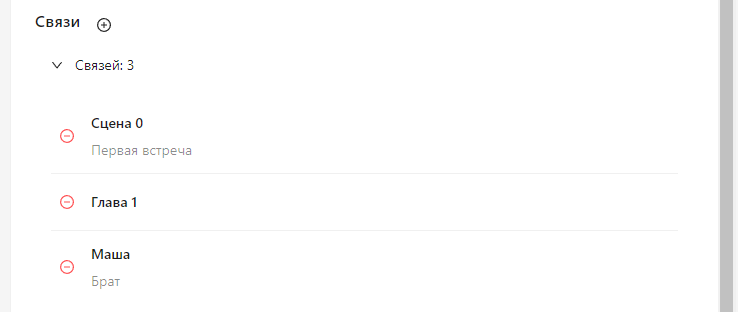
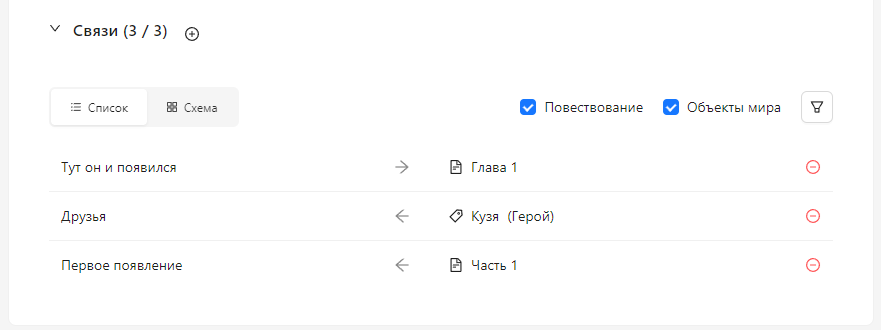
Update docs

diff --git a/docs/testing_checklist.md b/docs/testing_checklist.md
@@ -21,7 +21,7 @@
   - `project.sqlite`
   - папки `narrative`, `world`, `templates`
 - [ ] 1.1.8. Проверить, что после создания проекта в дереве повествования есть корневой элемент "Произведение".
-- [ ] 1.1.9. Попробовать создать проект в уже существующей папке с проектом (ожидается **ошибка или предупреждение** о существовании проекта).
+- [ ] 1.1.9. Попробовать создать проект в уже существующей папке с проектом — убедиться, что появляется **понятное пользователю сообщение об ошибке**, без технических деталей.
 - [ ] 1.1.10. В мастере создания проекта снять все галочки со структуры повествования и нажать "Далее" (ожидается, что **кнопка неактивна**, с пояснением).
 - [ ] 1.1.11. Проверить, что **в `project.sqlite` корректно заполнены таблицы**:
   - `narrative_items`
@@ -42,7 +42,7 @@
 - [ ] 1.2.5. Проверить, что при закрытии приложения (`before-quit`) проект корректно закрывается:
   - база данных закрывается без ошибок
   - не остаётся блокировок файлов
-- [ ] 1.2.6. При закрытом проекте (сразу после запуска приложения) попробовать открыть настройки проекта (`Файл -> Настройки`). Ожидается, что **действие будет заблокировано и/или появится уведомление**.
+- [ ] 1.2.6. При закрытом проекте (сразу после запуска приложения) попробовать открыть настройки проекта (`Файл -> Настройки`). Ожидается, что **появится уведомление**.
 
 ---
 
@@ -51,13 +51,17 @@
 - [ ] 1.3.1. Убедиться, что проект открыт и содержит данные (например, несколько объектов мира и повествования).
 - [ ] 1.3.2. Выбрать `Файл -> Заархивировать проект...`.
 - [ ] 1.3.3. В диалоговом окне сохранения выбрать место и имя ZIP-файла, затем нажать "Сохранить".
-- [ ] 1.3.4. Убедиться, что появилось уведомление об успешной архивации.
+- [ ] 1.3.4. Убедиться, что появилось **одно итоговое уведомление** об успешной архивации (а не несколько промежуточных).
 - [ ] 1.3.5. Проверить содержимое созданного ZIP-архива:
   - [ ] Он должен содержать файл `.wwb`.
   - [ ] Он должен содержать `project.sqlite`.
   - [ ] Он должен содержать папки `narrative` и `world` со всеми Markdown-файлами.
   - [ ] Проверить, что отсутствуют временные файлы или файлы, не относящиеся к проекту.
 - [ ] 1.3.6. Попробовать открыть созданный ZIP-архив как проект (распаковать и затем открыть) — убедиться, что он открывается корректно.
+- [ ] 1.3.7. Проверить актуальность данных в архиве:
+  - [ ] Внести изменение в какой-либо объект (например, в его описание).
+  - [ ] **Не переключаясь на другие объекты**, немедленно запустить архивацию.
+  - [ ] Распаковать архив и открыть проект. Убедиться, что **внесенное изменение сохранилось**.
 
 ---
 
@@ -140,16 +144,16 @@
 
 ---
 
-### 3.3. Вспомогательные файлы
+### 3.3. Вспомогательные файлы и синхронизация
 
 - [ ] 3.3.1. Выбрать объект мира. Убедиться, что панели "Дополнительные файлы" нет, если в папке нет файлов (кроме content.md).
 - [ ] 3.3.2. Нажать кнопку "Открыть папку объекта".
 - [ ] 3.3.3. Поместить в открывшуюся папку несколько файлов (например, .jpg, .txt, .pdf).
-- [ ] 3.3.4. Вернуться в приложение.  Переключиться на другой объект в приложении, а затем вернуться к исходному. Убедиться, что появилась сворачиваемая панель "Дополнительные файлы" и в ней отображается корректное количество файлов.
+- [ ] 3.3.4. Вернуться в приложение. **Не переключая объект**, подождать несколько секунд. Убедиться, что **панель "Дополнительные файлы" появилась автоматически** и в ней отображается корректное количество файлов.
 - [ ] 3.3.5. Развернуть панель. Убедиться, что в списке отображаются имена всех добавленных файлов.
 - [ ] 3.3.6. Нажать на имя одного из файлов. Убедиться, что файл открылся в приложении по умолчанию.
 - [ ] 3.3.7. Удалить один из файлов из папки через системный файловый менеджер.
-- [ ] 3.3.8. Переключиться на другой объект в приложении, а затем вернуться к исходному. Убедиться, что список файлов обновился и удаленный файл больше не отображается.
+- [ ] 3.3.8. **Не переключая объект**, подождать несколько секунд. Убедиться, что список файлов **обновился автоматически** и удаленный файл больше не отображается.
 - [ ] 3.3.9. Убедиться, что файл `content.md` не отображается в списке дополнительных файлов.
 - [ ] 3.3.10. Проверить работу с кириллицей в именах файлов.
 
@@ -158,9 +162,9 @@
 ### 3.4. Экспорт объектов мира
 
 - [ ] 3.4.1. Убедиться, что в проекте есть несколько шаблонов и объектов мира.
-- [ ] 3.4.2. Выбрать `Файл -> Экспортировать объекты мира...`.
+- [ ] 3.4.2. Выбрать `Данные -> Экспортировать -> Объекты мира...`.
 - [ ] 3.4.3. В диалоговом окне сохранения выбрать место и имя JSON-файла, затем нажать "Сохранить".
-- [ ] 3.4.4. Убедиться, что появилось уведомление об успешном экспорте.
+- [ ] 3.4.4. Убедиться, что появилось **одно итоговое уведомление** об успешном экспорте.
 - [ ] 3.4.5. Открыть созданный JSON-файл и проверить его структуру и содержимое:
   - [ ] Файл должен содержать экспортированные шаблоны, объекты мира и их связи.
   - [ ] Убедиться, что данные соответствуют существующим в проекте.
@@ -171,32 +175,53 @@
 
 - [ ] 3.5.1. Подготовить JSON-файл с экспортированными объектами мира (например, из предыдущего теста 3.4).
 - [ ] 3.5.2. Создать новый пустой проект или открыть проект, в котором нет объектов из импортируемого файла.
-- [ ] 3.5.3. Выбрать `Файл -> Импортировать объекты мира...`.
+- [ ] 3.5.3. Выбрать `Данные -> Импортировать -> Объекты мира...`.
 - [ ] 3.5.4. В диалоговом окне выбора файла указать подготовленный JSON-файл.
 - [ ] 3.5.5. В модальном окне импорта выбрать все шаблоны, объекты и связи для импорта.
 - [ ] 3.5.6. Нажать "Импортировать выбранные".
-- [ ] 3.5.7. Убедиться, что появилось уведомление об успешном импорте.
+- [ ] 3.5.7. Убедиться, что появилось **одно итоговое уведомление** об успешном импорте.
 - [ ] 3.5.8. Проверить, что импортированные шаблоны, объекты мира и их связи появились в проекте.
-- [ ] 3.5.9. Попробовать импортировать файл, содержащий шаблоны/объекты, которые уже есть в текущем проекте.
-  - [ ] Убедиться, что приложение корректно предлагает "использовать существующие" или "создать дубликаты" (если это предусмотрено функционалом).
-  - [ ] Проверить, что после импорта не создаются дубликаты, если выбрана опция "использовать существующие".
+- [ ] 3.5.9. Проверить обработку дубликатов при импорте:
+  - [ ] 3.5.9.1. Попробовать импортировать тот же файл еще раз.
+  - [ ] 3.5.9.2. В модальном окне убедиться, что **появились предупреждения о дубликатах** для шаблонов и объектов.
+  - [ ] 3.5.9.3. Убедится, что кнопка `выбрать все` не выбирает дублирующие типы
 - [ ] 3.5.10. Проверить импорт файла с некорректной структурой (невалидный JSON, отсутствующие обязательные поля) — **ожидается сообщение об ошибке**.
 
 ---
 
 ## 4. Управление связями
 
-- [ ] 4.1. Создать персонажа "Анна" и локацию "Замок".
-- [ ] 4.2. Выбрать "Анну", нажать "Добавить связь".
-- [ ] 4.3. В поиске найти "Замок".
-- [ ] 4.4. В описании связи указать "место рождения". Сохранить.
-- [ ] 4.5. Убедиться, что:
+### 4.1. Создание и удаление связей
+
+- [ ] 4.1.1. Создать персонажа "Анна" и локацию "Замок".
+- [ ] 4.1.2. Выбрать "Анну", в панели связей нажать "Добавить связь".
+- [ ] 4.1.3. В поиске найти "Замок".
+- [ ] 4.1.4. В описании связи указать "место рождения". Сохранить.
+- [ ] 4.1.5. Убедиться, что:
   - у "Анны" в списке связей появилась связь с "Замком"
   - у "Замка" в списке связей появилась **обратная связь** с "Анной"
-- [ ] 4.6. Удалить созданную связь.
-- [ ] 4.7. Попробовать создать связь объекта с самим собой — **ожидается, что объект не будет найден в поиске**.
-- [ ] 4.8. Проверить, что **связи сохраняются в базе данных** (`relations` таблица) и корректно восстанавливаются при перезагрузке.
-- [ ] 4.9. Удалить один из объектов, участвующих в связи — **связь должна быть автоматически удалена**.
+- [ ] 4.1.6. Удалить созданную связь.
+- [ ] 4.1.7. Попробовать создать связь объекта с самим собой — **ожидается, что объект не будет найден в поиске**.
+- [ ] 4.1.8. Проверить, что **связи сохраняются в базе данных** (`relations` таблица) и корректно восстанавливаются при перезагрузке.
+- [ ] 4.1.9. Удалить один из объектов, участвующих в связи — **связь должна быть автоматически удалена**.
+
+### 4.2. Отображение и фильтрация связей
+
+- [ ] 4.2.1. Убедиться в наличии переключателя вида "Список" / "Схема" в панели связей.
+- [ ] 4.2.2. **Тестирование вида "Список":**
+  - [ ] Убедиться, что связи отображаются в виде таблицы/списка.
+  - [ ] Проверить наличие колонок (например, "Объект", "Описание", "Направление").
+  - [ ] Кликнуть по связанному объекту в списке — убедиться, что произошел переход на этот объект.
+- [ ] 4.2.3. **Тестирование вида "Схема":**
+  - [ ] Переключиться на вид "Схема". Убедиться, что связи отображаются в виде графа.
+  - [ ] Убедиться, что узлы графа соответствуют объектам, а ребра — связям.
+  - [ ] Кликнуть на узел графа — убедиться, что произошел переход на соответствующий объект. (этого пока нет)
+- [ ] 4.2.4. **Тестирование фильтрации:**
+  - [ ] Создать несколько объектов разных типов (например, "Персонаж", "Локация", "Артефакт") и связать их.
+  - [ ] Убедиться в наличии кнопки фильтрации по типам объектов.
+  - [ ] Включить фильтр только для типа "Персонаж". Убедиться, что в списке/схеме отображаются только связи, ведущие к персонажам.
+  - [ ] Проверить работу фильтра с несколькими выбранными типами.
+  - [ ] Сбросить фильтр и убедиться, что все связи снова отображаются.
 
 ---
 
@@ -206,7 +231,7 @@
 
 - [ ] 5.1.1. Убедиться, что в повествовании есть несколько вложенных элементов (часть -> глава -> сцена).
 - [ ] 5.1.2. Для каждого элемента добавить MD-контент.
-- [ ] 5.1.3. Выполнить экспорт через меню `Файл -> Повествование -> Экспортировать всю рукопись`.
+- [ ] 5.1.3. Выполнить экспорт через меню `Данные -> Экспортировать -> Всю рукопись`.
 - [ ] 5.1.4. Сохранить файл.
 - [ ] 5.1.5. Открыть сохраненный MD-файл и проверить, что:
   - [ ] Все части повествования присутствуют
@@ -228,8 +253,8 @@
 
 ## 6. Настройки проекта
 
-- [ ] 6.1. Открыть настройки проекта.
-- [ ] 6.2. Изменить  - имя автора
+- [ ] 6.1. Открыть настройки проекта (`Файл -> Настройки`).
+- [ ] 6.2. Изменить имя автора.
 - [ ] 6.3. Проверить настройку пути к внешнему редактору Markdown:
   - [ ] Указать корректный путь к исполняемому файлу Markdown редактора.
   - [ ] Убедиться, что изменения сохранились после перезагрузки.
@@ -238,6 +263,7 @@
 - [ ] 6.4. Убедиться, что после перезагрузки новые значения отображаются корректно.
 - [ ] 6.5. Проверить, что все настройки сохраняются в таблицу `project_settings` базы данных.
 - [ ] 6.6. Проверить, что в настройках проекта отображается **версия приложения в поле только для чтения**.
+- [ ] 6.7. Проверить дизайн компонента выбора папки (например, для редактора Markdown) - убедиться, что он выглядит эстетично и функционирует правильно.
 
 ---
 

diff --git a/docs/planing/features.md b/docs/planing/features.md
@@ -6,7 +6,8 @@
 
 - ✅ **Реализовано.** Функционал, который уже есть в приложении.
 - ❌ **Не реализовано.** Функционал, который будет добавлен в будущих версиях.
-- ⚙ **Запланировано к разработке.** Функционал, который будет реализован в одной из следующих версий.
+- ⚙ **Взято в работу.** Функционал, который будет реализован в одной из следующих версий.
+- ➖ **Разработка отменена.** Функционал, который после проработки признан не реализуемым или не нужным
 
 ---
 
@@ -39,6 +40,7 @@
 |   ✅   | **Конструктор проекта**                                                      | (Расширение функционала). При создании нового проекта запустить 'мастер', в котором можно выбрать структуру повествования и начальный набор объектов мира (например, импортировав 'пакет шаблонов' для фэнтези).                                                                                                                         |
 |   ❌   | **Разделение файла проекта и каталога с его содержимым**                     | (Архитектурное изменение). Переход к модели, где `.wwb` файл является основным файлом проекта, содержащим ссылки на данные, расположенные в отдельной папке. Отложено из Этапа 7 для снижения сложности и рисков.                                                                                                                        |
 |   ✅   | **Опциональное создание подпапки для проекта**                               | (Улучшение UX). В мастере создания проекта добавить опцию (чекбокс), позволяющую создавать проект в подпапке с именем проекта внутри выбранной директории.                                                                                                                                                                               |
+|   ❌   | **Миграция проекта на новую версию**                               | (Расширение функционала). Встроенный механизм для обновления проектов, созданных в предыдущих версиях приложения, до текущей версии. Обеспечивает обратную совместимость и целостность данных при переходе на новые версии программы. |
 
 ### Модуль 3: Повествование
 
@@ -50,7 +52,7 @@
 |   ✅   | **"Интеллектуальная коррекция"** при drag-and-drop                 | (Улучшение UX. Вместо ошибки, система исправляет невалидное перемещение. Пример: Сцена, перетащенная на Часть, помещается в первую главу этой части).                                                                                                                                                                                                                                      |
 |   ✅   | **Гибкая иерархия повествования (по "масштабу")**                  | (Расширение функционала). Пользователь сможет гибко настраивать иерархию повествования через конструктор проекта, выбирая, какие из предопределенных уровней (например, "Часть", "Глава", "Сцена") будут активны в его проекте. Это позволит пропускать ненужные уровни и отвязать UI от жестко заданных правил. Внутренне будет использоваться механизм, подобный числовому полю 'scale'. |
 |   ❌   | Сквозной просмотр всей рукописи в одном окне                       | (Удобство. Пользователь может сделать это вручную, открыв файлы).                                                                                                                                                                                                                                                                                                                          |
-|  ➖    | **Управление контентом для иерархических элементов**               | (Улучшение UX). Позволяет определять, имеет ли родительский элемент (глава, часть) собственный контент (аннотацию) или является просто контейнером. Подробнее см. в [ADR-007](adrs/ADR-007_narrative-hierarchical-content-review.md).                                                                                                                                                      |
+|   ➖   | **Управление контентом для иерархических элементов**               | (Улучшение UX). Позволяет определять, имеет ли родительский элемент (глава, часть) собственный контент (аннотацию) или является просто контейнером. Подробнее см. в [ADR-007](adrs/ADR-007_narrative-hierarchical-content-review.md).                                                                                                                                                      |
 |   ✅   | **Рекурсивное удаление элементов повествования**                   | (Улучшение UX). Позволяет удалять родительский элемент (главу, часть) вместе со всеми его дочерними элементами за одну операцию, с запросом подтверждения.                                                                                                                                                                                                                                 |
 |   ✅   | **Метаданные для повествования (План и Основная мысль)**           | (Расширение функционала). Добавить поля 'План' (в виде чек-листа) и 'Основная мысль'.                                                                                                                                                                                                                                                                                                      |
 |   ✅   | **Массовое добавление пунктов плана**                              | (Улучшение UX). Позволить вставлять несколько пунктов плана за раз — по одному на строку, или в формате markdown-списка (нумерованного/маркированного). Удобно при копировании плана из внешнего источника.                                                                                                                                                                                |
@@ -99,7 +101,7 @@
 |   ✅   | **Просмотр связей в виде списка** на странице объекта             | **Упрощение для MVP:** вместо графа показываем простой список.                                                                        |
 |   ⚙   | **Реализация текстового представления связей (List View)**        | (Новая фича). В соответствии с новым дизайном, переработать существующий компонент отображения связей. Реализовать структурированное "табличное" представление, добавить переключатель видов ("Список"/"Схема") и фильтры по типам объектов. |
 |   ⚙   | **Реализация графа связей (Graph View)**                          | (Новая фича). Реализовать отображение связей в виде интерактивного графа ("Схема"). Узлы в графе должны быть кликабельны для навигации. Добавить возможность фильтрации по типам объектов для управления сложностью отображения. |
-|   ⚙   | **Переход к связанному объекту по двойному клику**         | (Улучшение UX). При двойном клике на связанном объекте (как в табличном представлении, так и в графе) происходит переход к его представлению и выделение в дереве объектов. |
+|   ❌   | **Переход к связанному объекту по двойному клику**                | (Улучшение UX). При двойном клике на связанном объекте (как в табличном представлении, так и в графе) происходит переход к его представлению и выделение в дереве объектов. |
 |   ❌   | **Визуальный граф всего проекта (карта связей)**                  | (Визуальная фишка). Общий граф всех связей в проекте для общей картины.                                                               |
 
 ### Модуль 7: Таймлайны
@@ -119,6 +121,8 @@
 |   ❌   | **Сборка рукописи в форматы .docx/.pdf**              | (Расширение функционала). Позволяет экспортировать все части повествования в форматы .docx и .pdf.                          |
 |   ✅   | Экспорт объектов мира в отдельный файл (JSON или XML) | (v0.2.2) (Функционал для обмена данными между проектами).                                                                   |
 |   ✅   | Импорт объектов мира из файла в текущий проект        | (v0.2.2) (Функционал для обмена данными между проектами).                                                                   |
+|   ❌   | **Экспорт содержимого файлов объектов мира**          | (Расширение функционала). При экспорте World Objects в отдельный файл (JSON или XML) включать содержимое связанных файлов (например, `content.md`).                                                                                                     |
+|   ❌   | **Импорт содержимого файлов объектов мира**           | (Расширение функционала). При импорте World Objects из файла восстанавливать содержимое связанных файлов (например, `content.md`).                                                                                                                       |
 
 ---
 
@@ -126,11 +130,12 @@
 
 | Статус | Фича                                  | Примечание                                                                                                                                                                                                         |
 | :----: | ------------------------------------- | ------------------------------------------------------------------------------------------------------------------------------------------------------------------------------------------------------------------ |
-|   ❌   | **Панель помощника**                  | Правая панель (отдельная вкладка) с интерфейсом для взаимодействия с AI-функциями.                                                                                                                                 |
+|   ❌   | **Конфигурация подключения к Ollama (LLM Backend)** | Разработка пользовательского интерфейса в настройках приложения для конфигурирования подключения к локально запущенному серверу Ollama. Это включает поля для указания URL сервера Ollama, параметров авторизации (если применимо) и кнопку для **тестирования соединения**. |
 |   ❌   | **Подбор синонимов**                  | Для выделенного слова выводит несколько вариантов синонимов как подсказку. Работает через Ollama (локальный LLM). Без автозамены.                                                                                  |
 |   ❌   | **Проверка текста (стилистика)**      | Отправка выделенного фрагмента в LLM для анализа. Результат выводится как список рекомендаций в панели помощника. Результаты хранятся в БД с привязкой к файлу (несколько последних проверок).                     |
 |   ❌   | **Проверка консистентности мира**     | Анализ связей повествование↔объекты мира. Без LLM: детектит фрагменты без связей и объекты-орфаны. С LLM: выявляет противоречия между описанием объекта и текстом. Warnings можно принять/скрыть.                  |
 |   ❌   | **Генерация плана по основной мысли** | Кнопка рядом с добавлением пункта плана. LLM генерирует план на основе поля "Основная мысль" выбранного элемента. Результат в панели помощника, с опцией импорта (с предупреждением о замене существующего плана). |
+|   ❌   | **Интеграция с внешними диалоговыми системами (Lore API)** | Реализация легковесного API (например, на базе MCP или HTTP API) для предоставления структурированной информации об объектах мира (World Objects) и их связях внешним AI-диалоговым системам или другим инструментам. Это позволит сторонним системам "вести диалог" в рамках заданного лора, используя актуальные данные проекта. Требует проработки механизма авторизации/доступа. |
 
 ---
 

diff --git a/CHANGELOG.md b/CHANGELOG.md
@@ -5,7 +5,7 @@ All notable changes to this project will be documented in this file.
 The format is based on [Keep a Changelog](https://keepachangelog.com/en/1.0.0/),
 and this project adheres to [Semantic Versioning](https://semver.org/spec/v2.0.0.html).
 
-## [0.2.3] -
+## [0.2.3] - 2026-05-15
 
 ### Added at [0.2.3]
 
